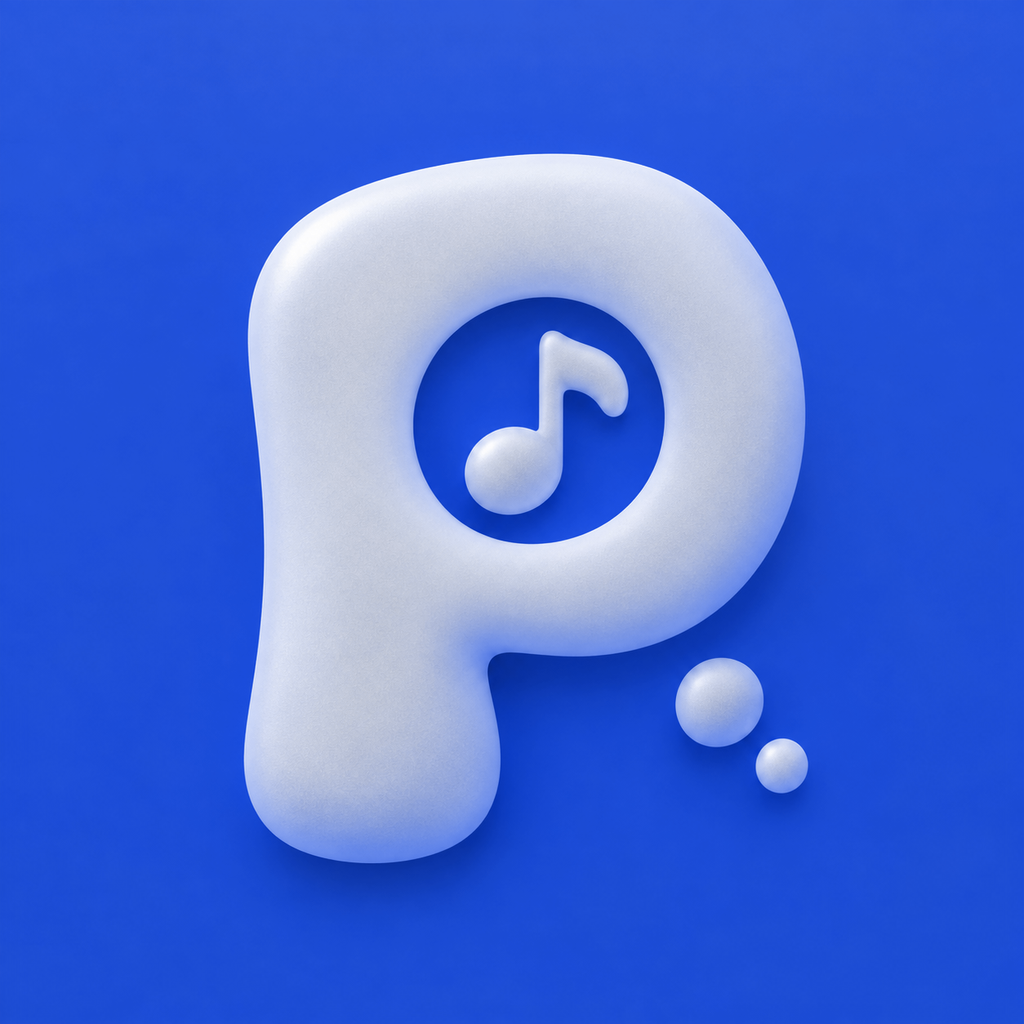
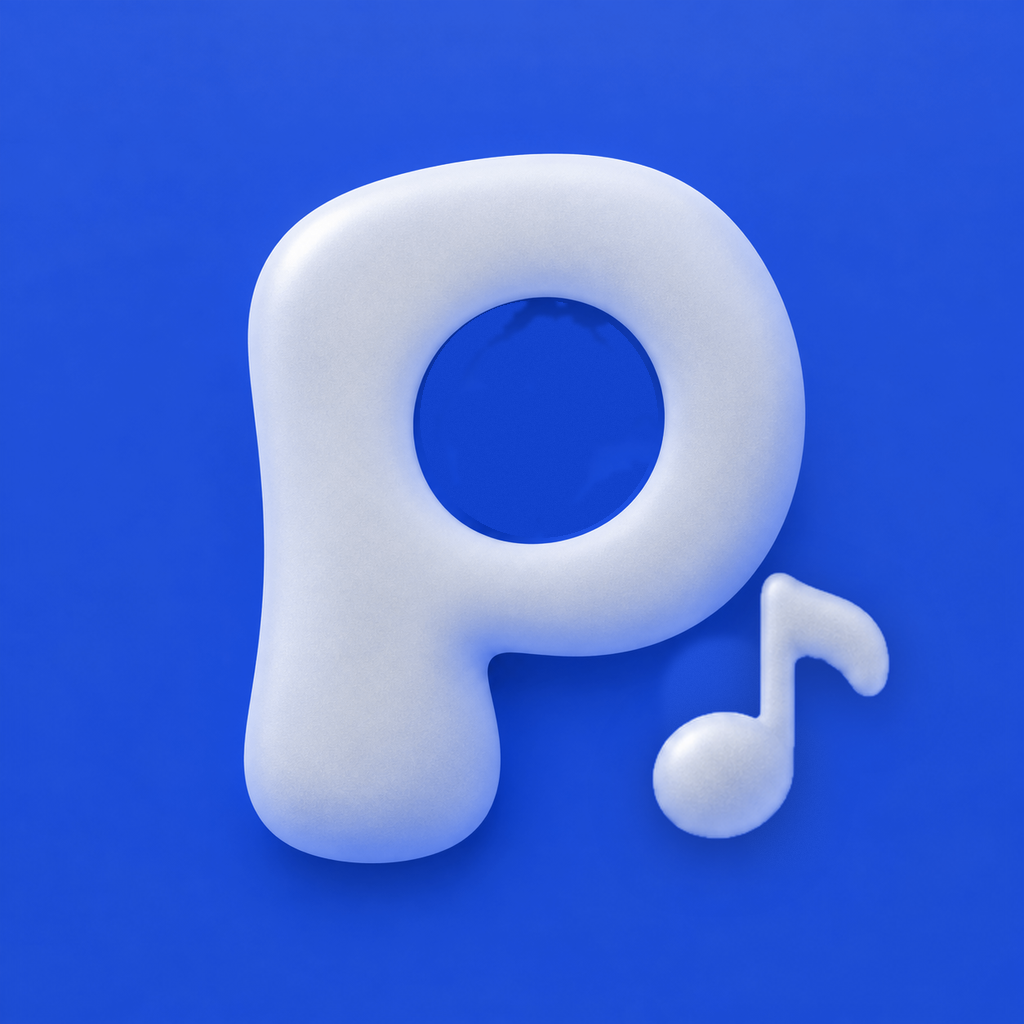
「字母 P」图标的音符移到右下角，与 P 连读成 Pr

Changed region(s): [[0.625, 0.5625, 0.875, 0.8438], [0.4375, 0.2812, 0.625, 0.5312], [0.4062, 0.3438, 0.4375, 0.375]]

diff --git a/IconDesign/AppIcons2026/README.md b/IconDesign/AppIcons2026/README.md
@@ -3,7 +3,7 @@
 The production catalog contains one primary icon and five alternates:
 
 - `00-splash.png` — primary icon: a milky-white dimensional splash with an engraved ring and a note in its opening, on solid berry pink.
-- `14-letter-p.png` — the letter P in the same material in pure white on solid cobalt blue, with a note in its bowl.
+- `14-letter-p.png` — the letter P in the same material in pure white on solid cobalt blue. Its bowl is an open counter; the note sits at the lower right on the P's own baseline, where its stem and flag double as a lowercase r — together they read Pr.
 - `15-folded-note.png` — the previous primary folded-note icon, retained as an alternate.
 - `12-pikaqiu.png` — user-submitted gradient music-note icon on an adaptive light, dark, or tinted background.
 - `06-soft-note.png` — restored original soft-gradient music note.
